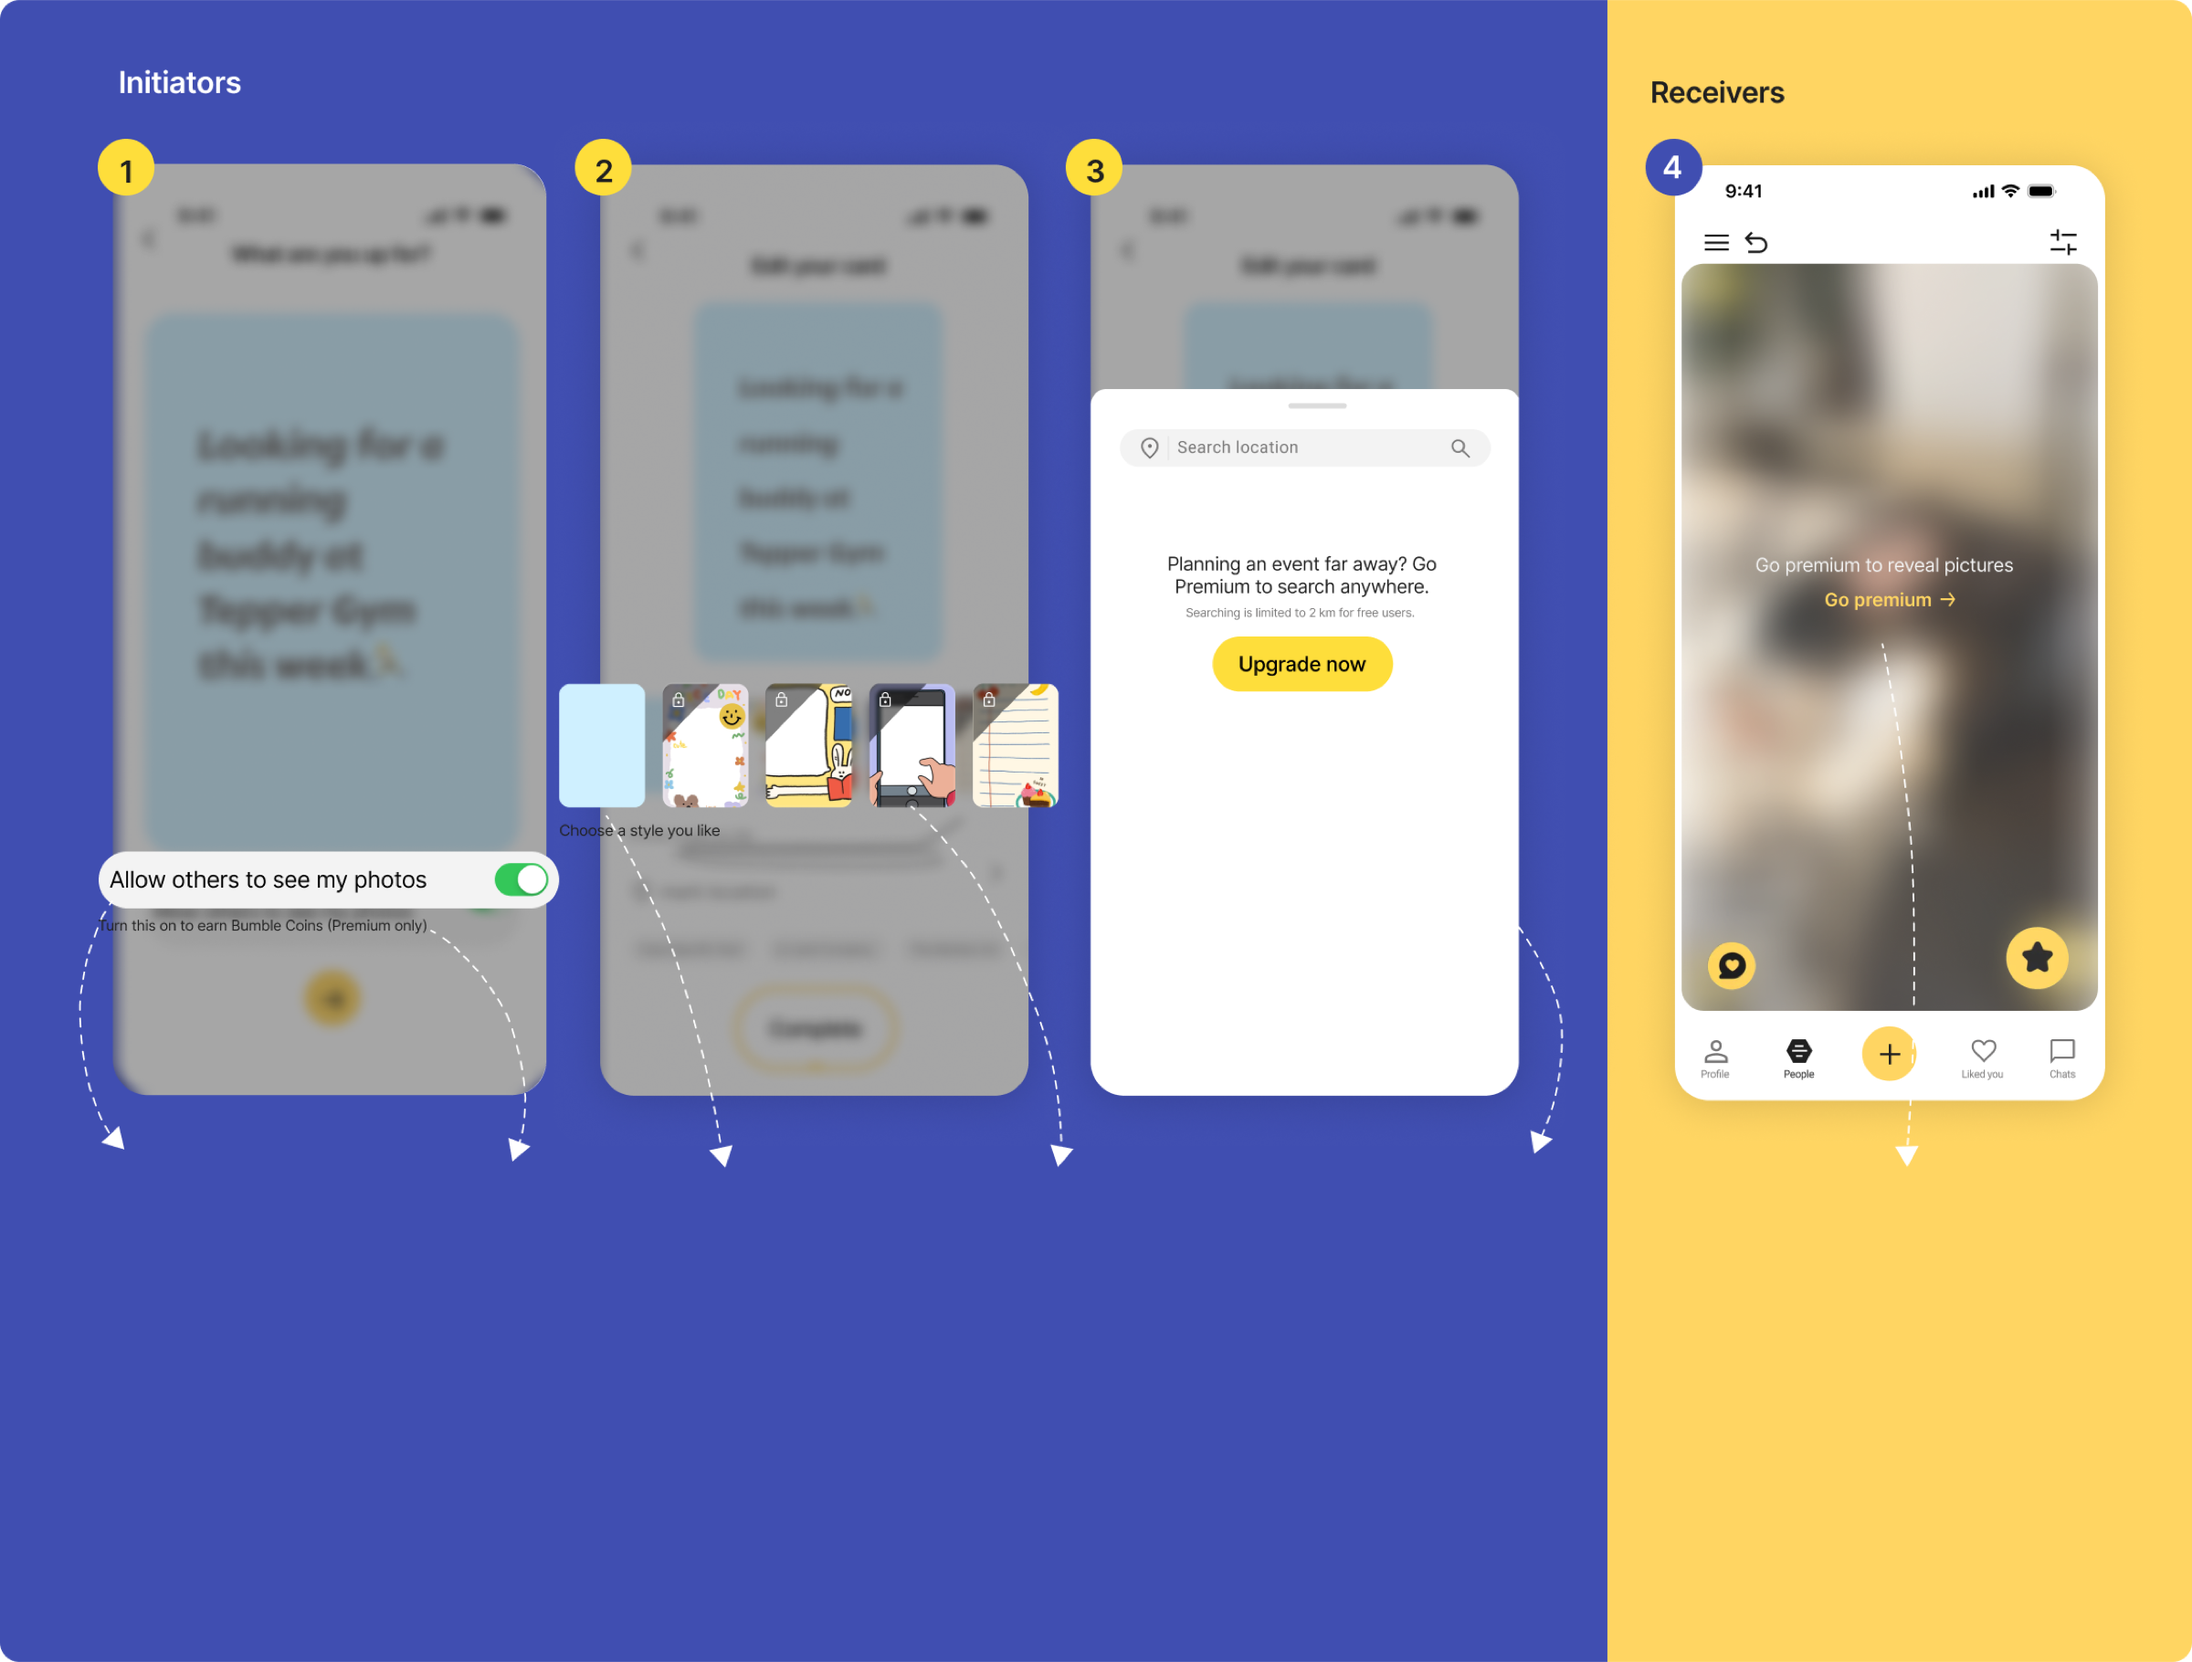
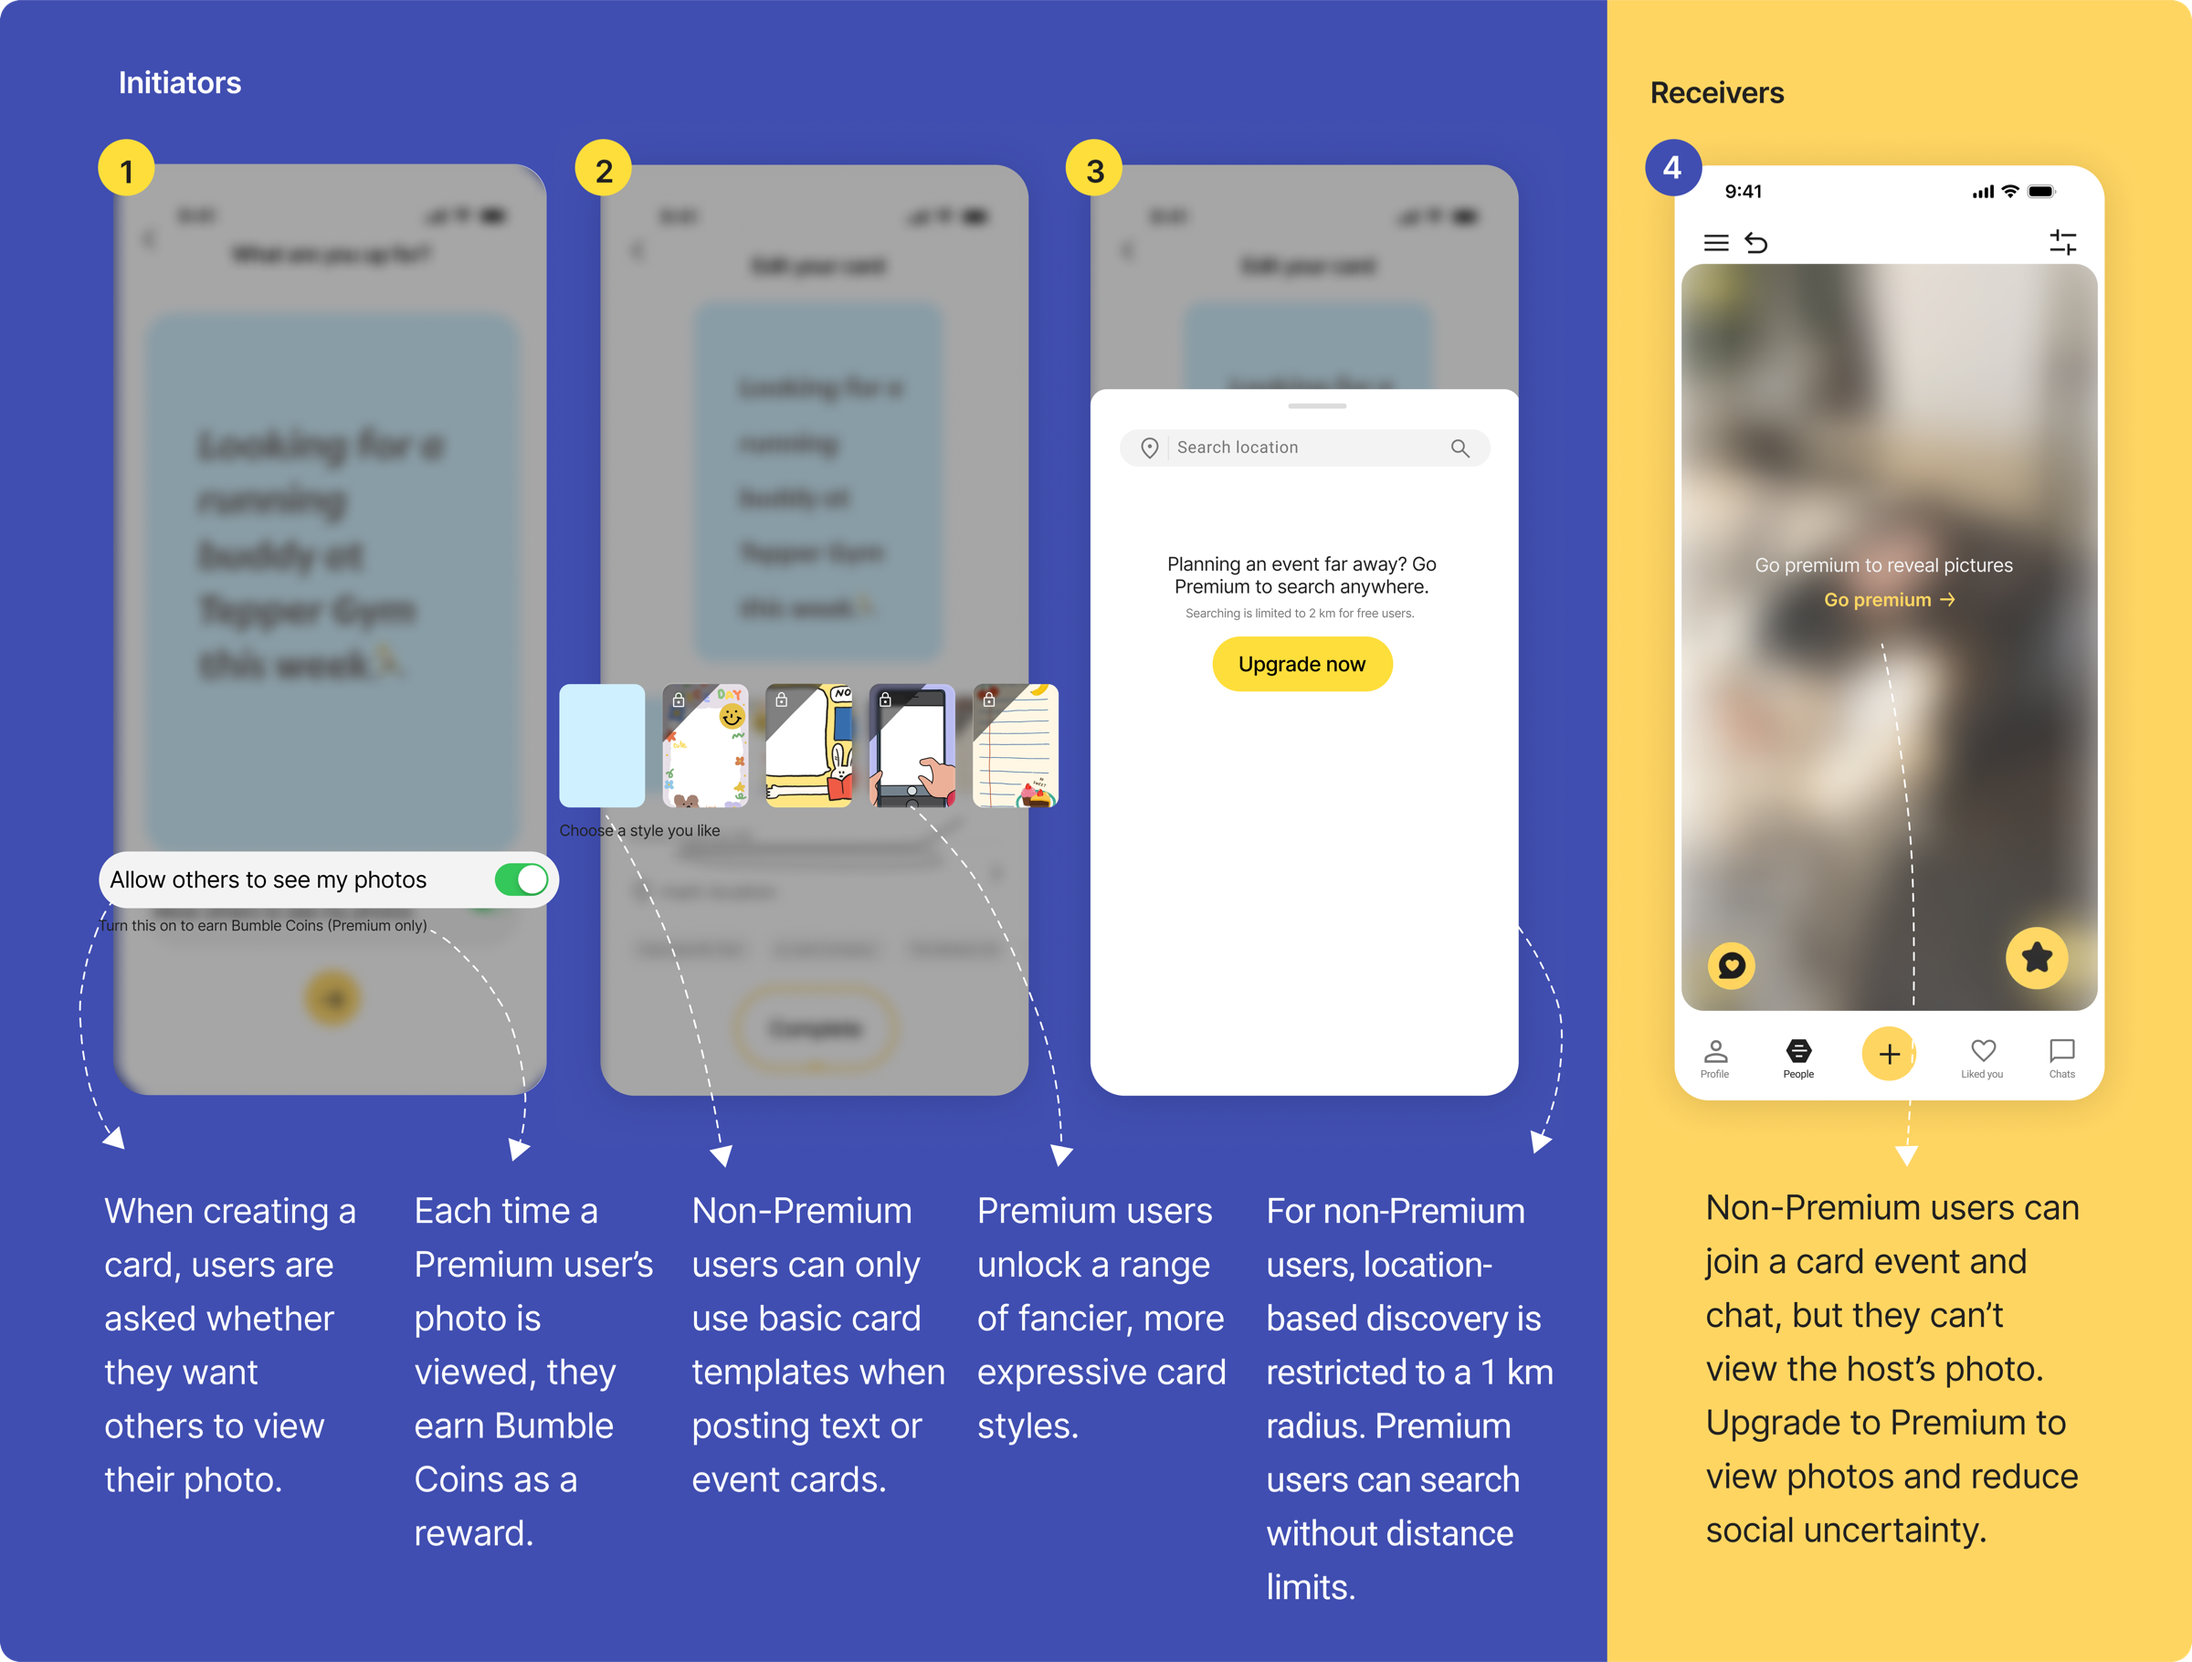
Bumble: swap core-interactions diagram for new captioned composite, drop duplicate points grid

diff --git a/components/case/bumble.tsx b/components/case/bumble.tsx
@@ -223,16 +223,6 @@ export function BumbleCaseStudy() {
       <Reveal className={`${WIDE} mt-8`}>
         <Shot img={b.coreInteractions.img} />
       </Reveal>
-      <Reveal className={`${COL} mt-10`}>
-        <div className="grid gap-x-10 gap-y-6 sm:grid-cols-2">
-          {b.coreInteractions.points.map((p) => (
-            <div key={p.title} className="border-t border-border pt-4">
-              <h3 className="text-[15px] font-semibold tracking-tight">{p.title}</h3>
-              <p className="mt-1.5 text-[14px] leading-6 text-muted">{p.body}</p>
-            </div>
-          ))}
-        </div>
-      </Reveal>
 
       {/* CROSS-PLATFORM */}
       <Reveal className={`${COL} ${GAP}`}>
